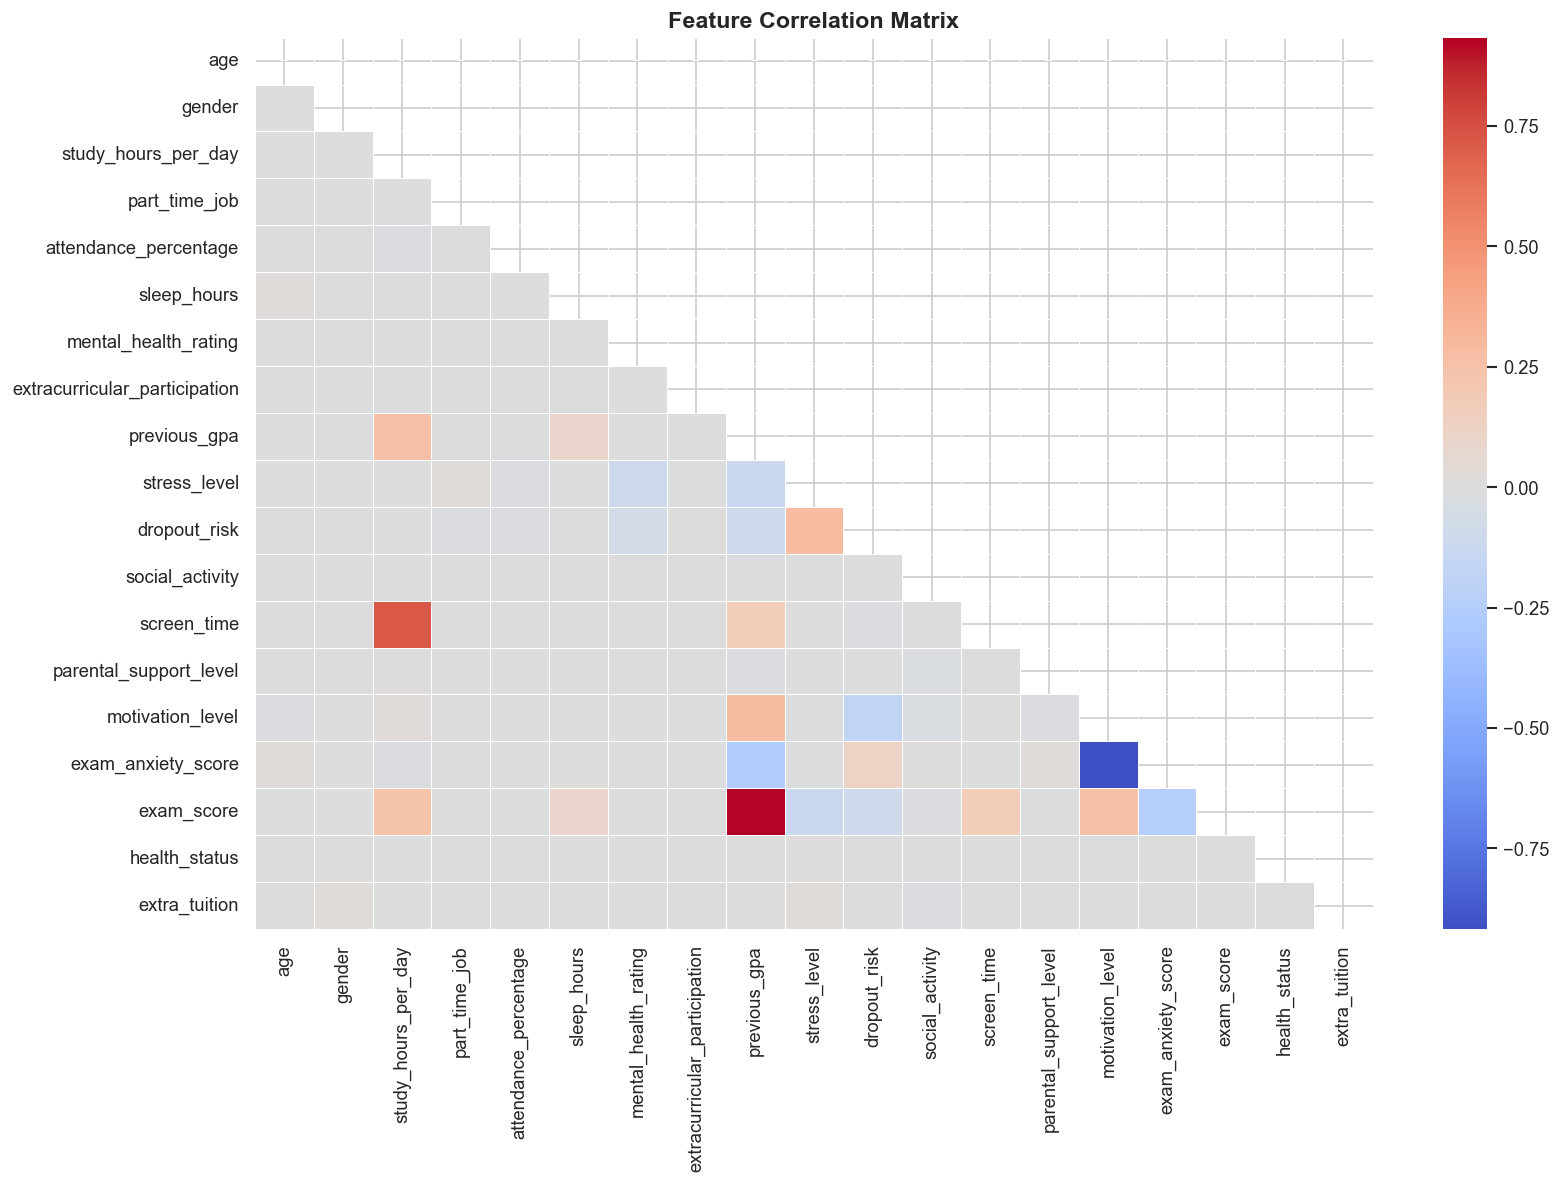
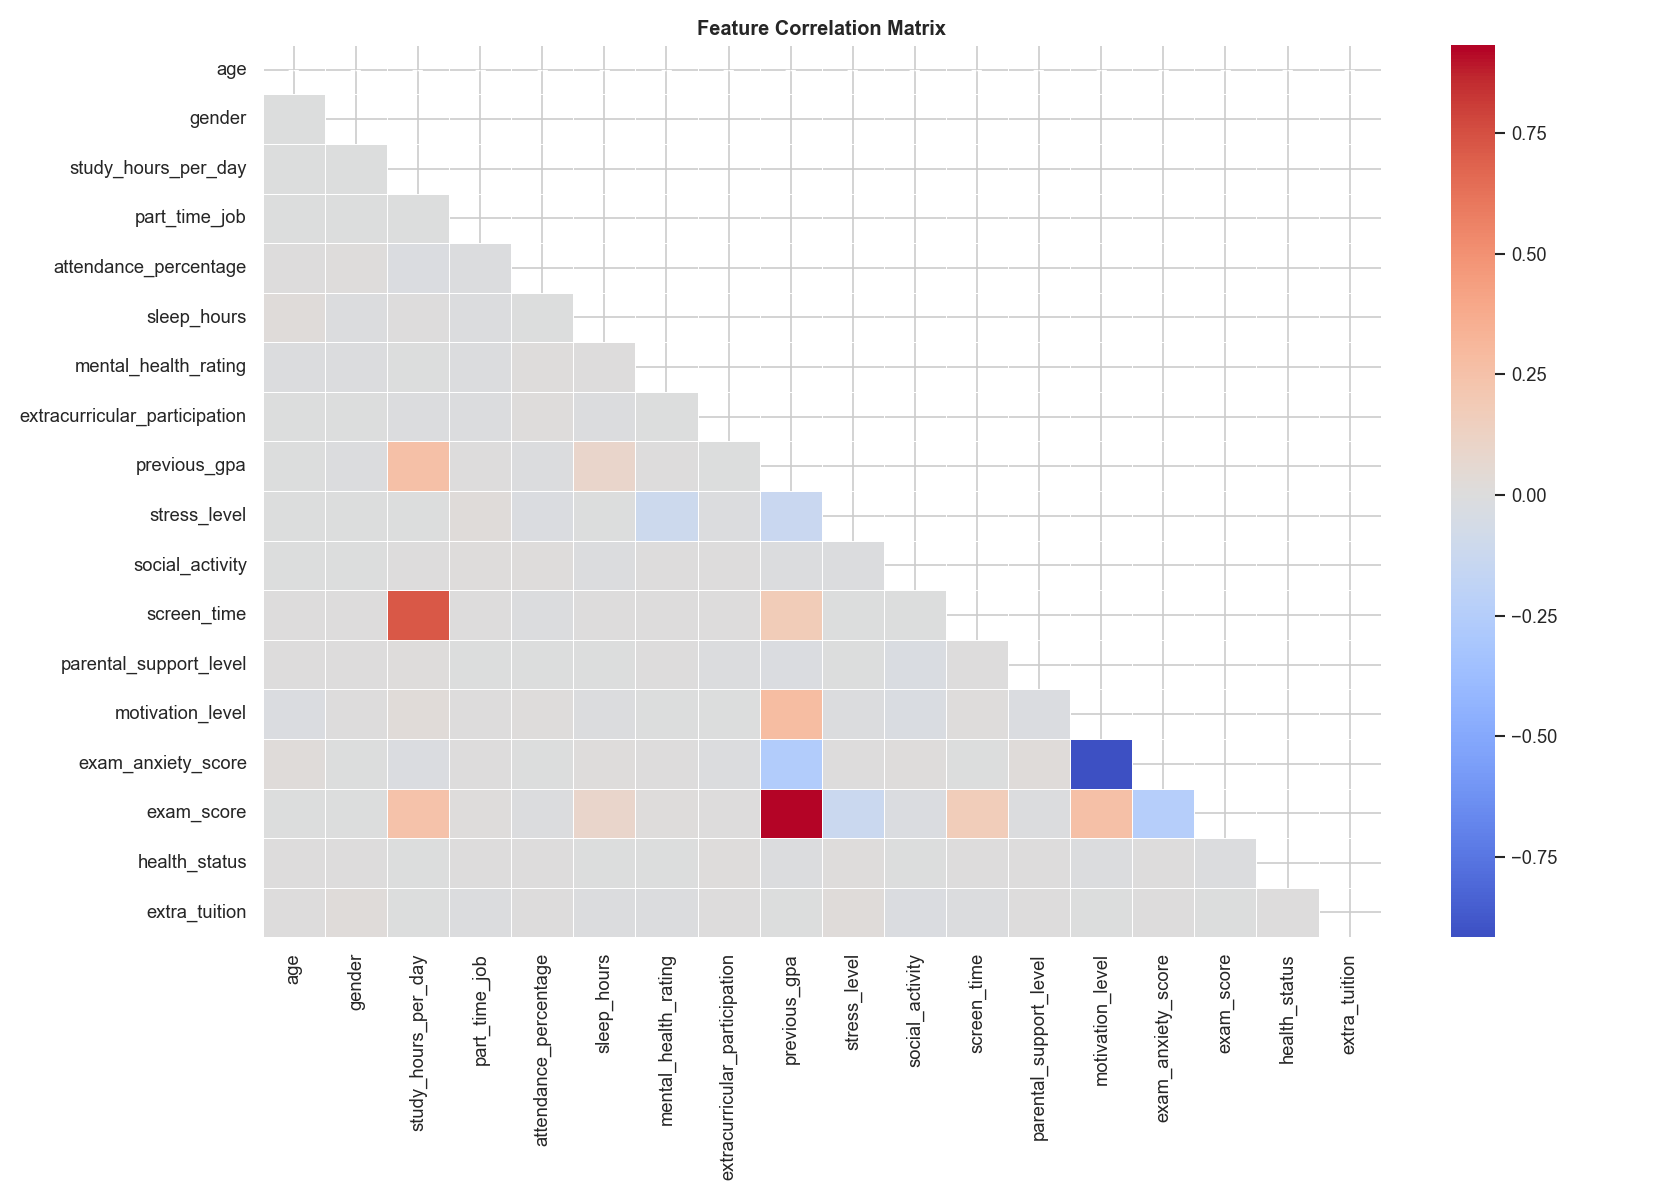
4th commit

diff --git a/README.md b/README.md
@@ -121,4 +121,3 @@ The app accepts user input for all 17 features and returns:
 
 ---
 
-*Verified by Department – Dr. Hidayaturrahman, S.Kom., M.T.*
